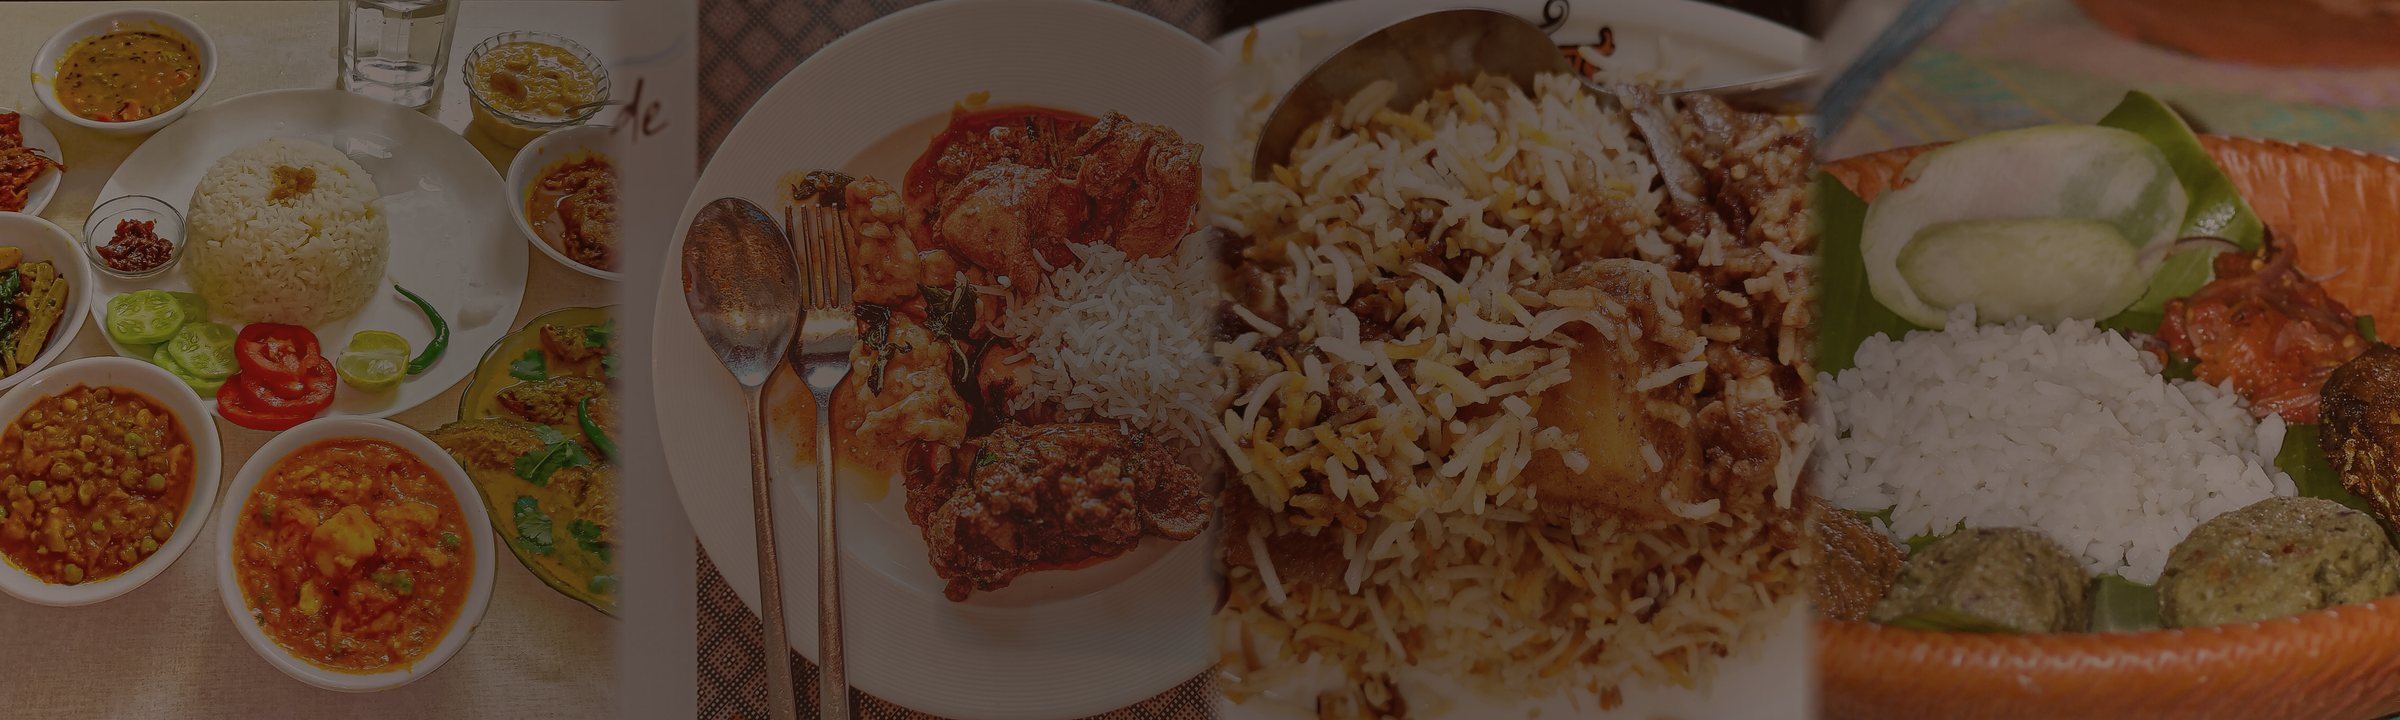
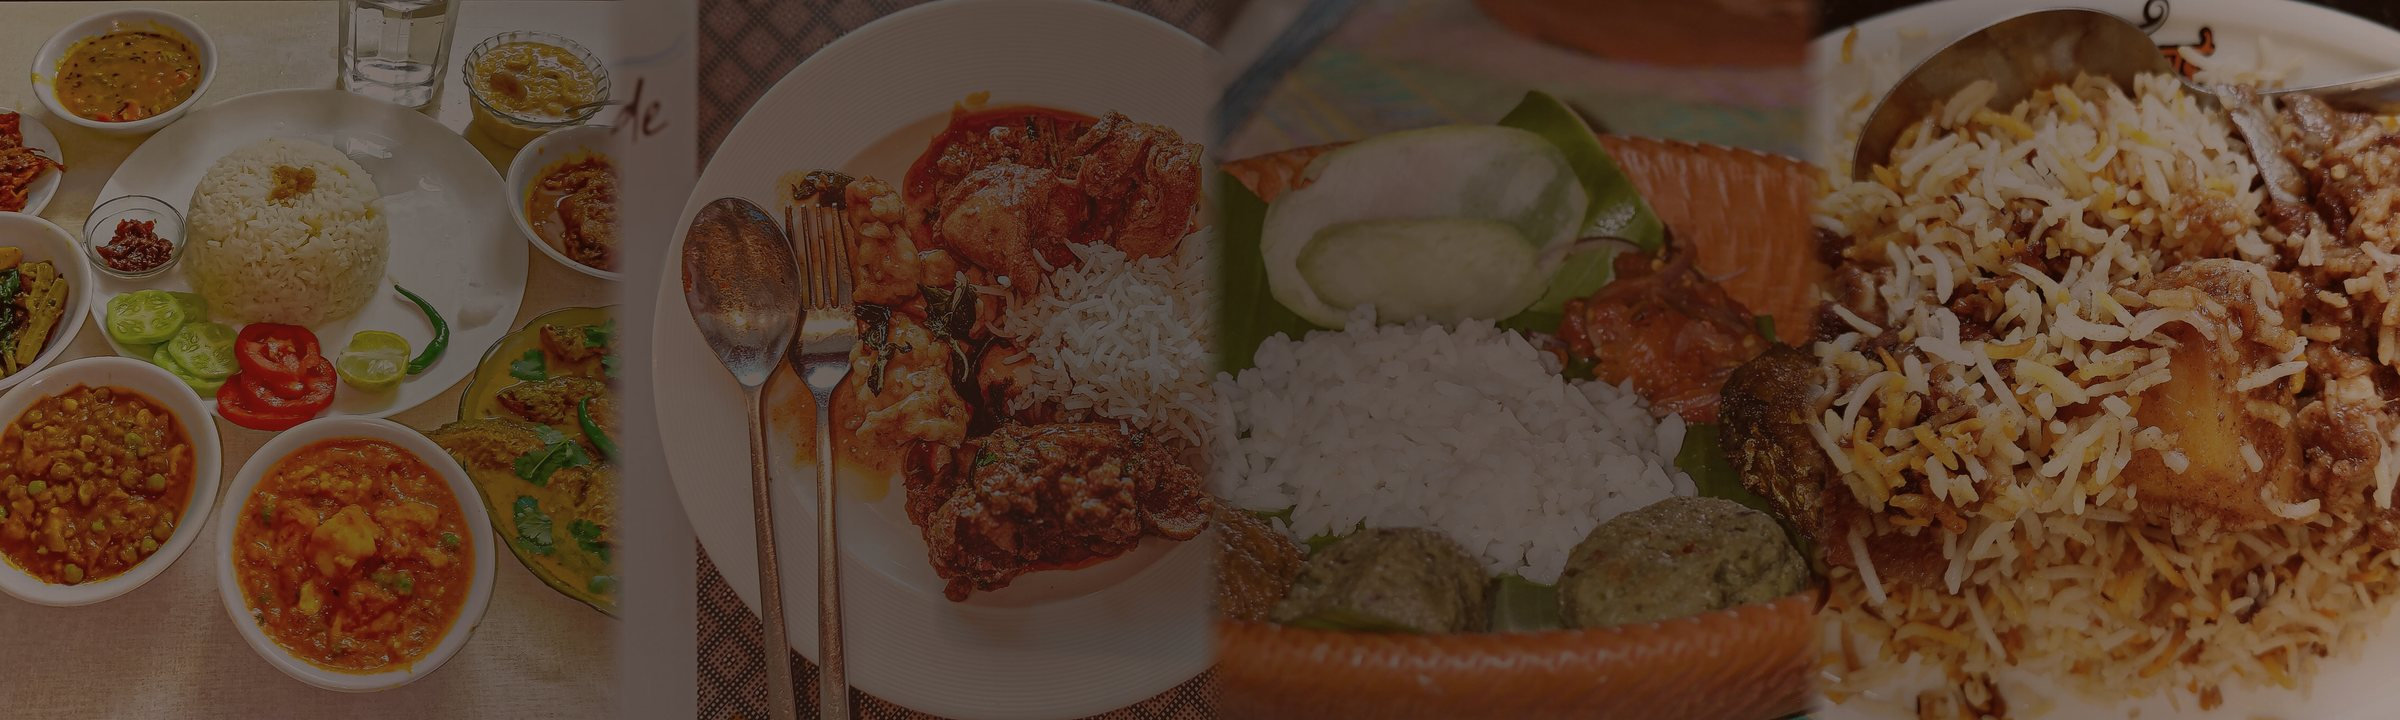
Panta ilish third, biryani last
The owner asked for the third and fourth plates to change places. The
band now runs lunch platter, Bengali platter, panta ilish, kacchi
biryani — and the biryani's warm gold makes a better close than the
terracotta did. The footer credits follow the same order.

diff --git a/src/storefront/components/chrome.js b/src/storefront/components/chrome.js
@@ -312,10 +312,10 @@ export function footerHTML(){
              target="_blank" rel="noopener">Kingshukdeb6</a>,
           <a href="https://commons.wikimedia.org/wiki/File:Bengali_Platter.jpg"
              target="_blank" rel="noopener">JyotiPN</a>,
-          <a href="https://commons.wikimedia.org/wiki/File:Kacchi_Biryani.jpg"
-             target="_blank" rel="noopener">ANKAN</a>,
           <a href="https://commons.wikimedia.org/wiki/File:Panta_Ilish_-_a_traditional_platter_in_Pohela_Boishakh_2016_(01).jpg"
-             target="_blank" rel="noopener">Moheen Reeyad</a>
+             target="_blank" rel="noopener">Moheen Reeyad</a>,
+          <a href="https://commons.wikimedia.org/wiki/File:Kacchi_Biryani.jpg"
+             target="_blank" rel="noopener">ANKAN</a>
           ·
           <a href="https://creativecommons.org/licenses/by-sa/4.0/"
              target="_blank" rel="noopener">CC BY-SA</a>
